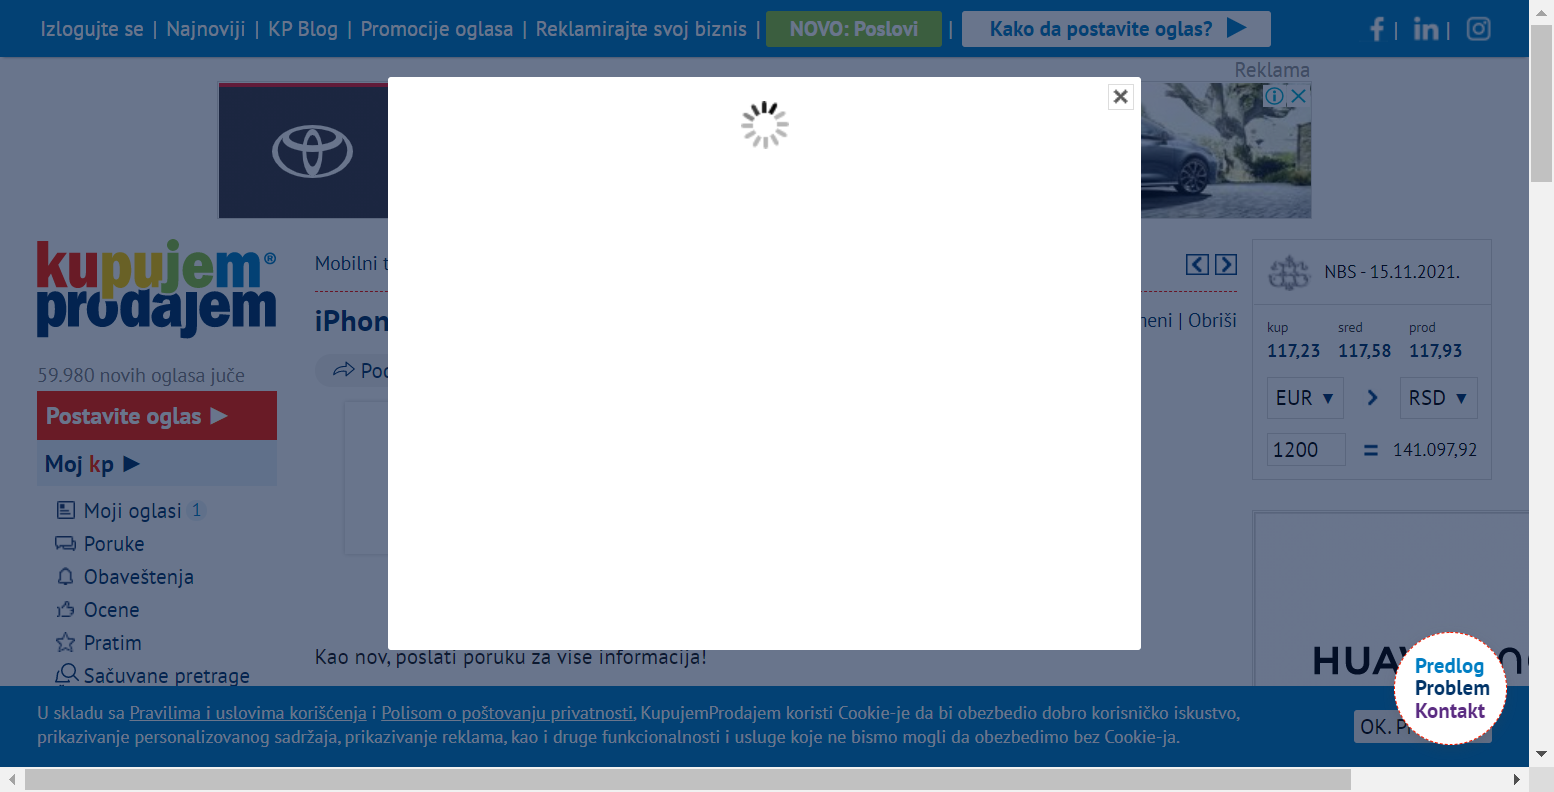
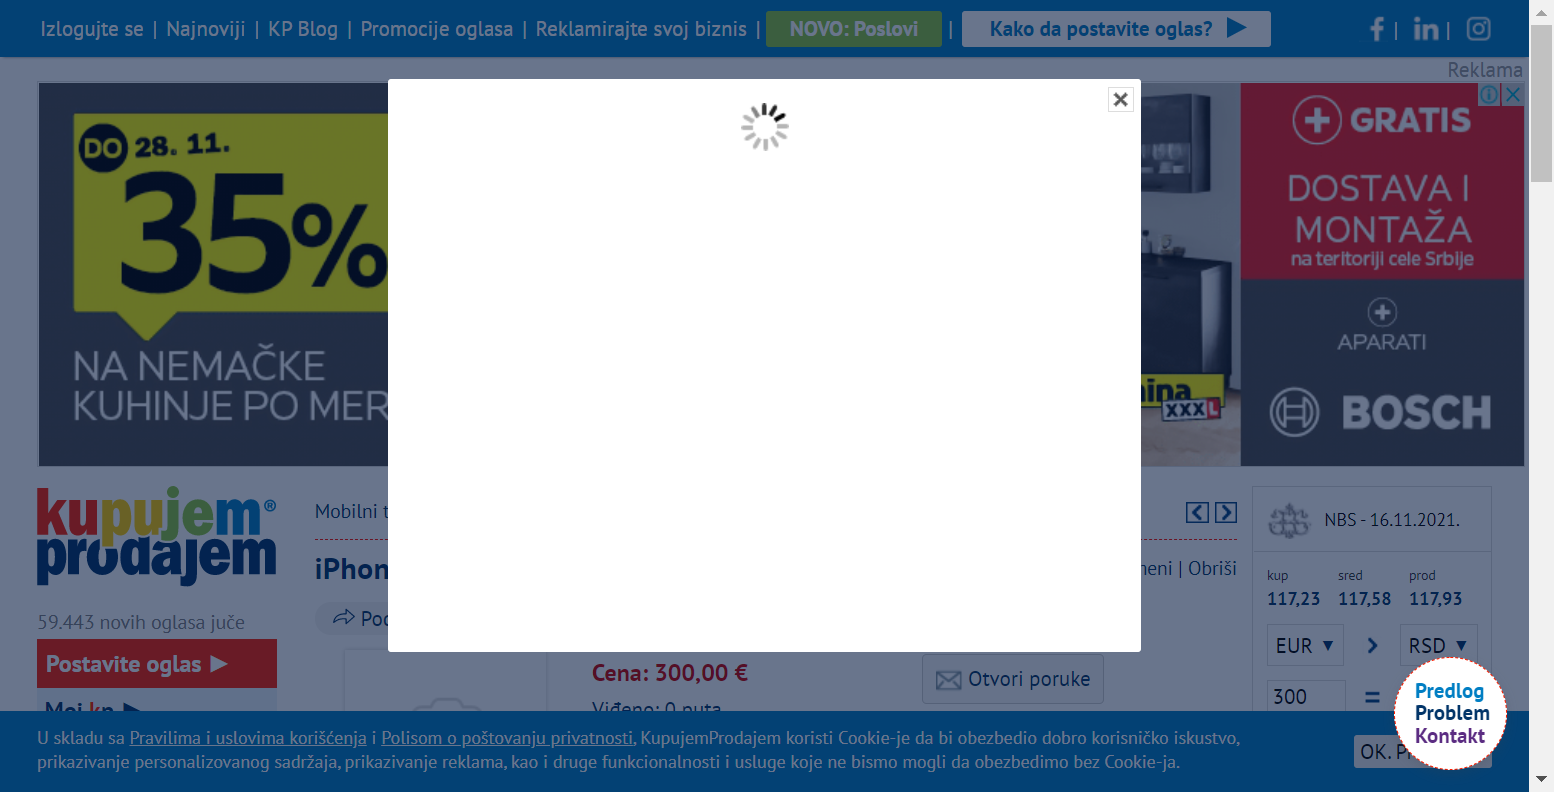
[final project]

diff --git a/test_ita.py b/test_ita.py
@@ -4,6 +4,7 @@ from selenium.webdriver.support.ui import WebDriverWait
 from selenium.webdriver.common.by import By       
 from selenium.webdriver.support import expected_conditions as EC, wait
 import time
+import re
 
 opcije = ChromeOptions()
 opcije.add_argument("--log-level=3")
@@ -31,11 +32,15 @@ def log_in_logout():
     time.sleep(3)
 
     email.click()
-    email.send_keys("itilija2@gmail.com")
+    email.send_keys("ilijaitacademy@gmail.com")
     password.click()
     password.send_keys("Miljevic2005")
     klik.click()
     browser.save_screenshot("kp_login_.png")
+    time.sleep(3)
+    log_out = browser.find_element_by_link_text("Izlogujte se")
+    log_out.click()
+    browser.save_screenshot("kp_log_out.png")
     time.sleep(3)
 
     browser.close()
@@ -64,7 +69,7 @@ def postavi_oglas():
     time.sleep(3)
 
     email.click()
-    email.send_keys("itilija2@gmail.com")
+    email.send_keys("ilijaitacademy@gmail.com")
     password.click()
     password.send_keys("Miljevic2005")
     klik.click()
@@ -78,7 +83,7 @@ def postavi_oglas():
 
     naziv_oglasa = browser.find_element_by_id("data[group_suggest_text]")
     naziv_oglasa.click()
-    naziv_oglasa.send_keys("iPhone 13 Pro Max")
+    naziv_oglasa.send_keys("iPhone 7")
     browser.save_screenshot("kp_new_.png")
     time.sleep(3)
 
@@ -99,7 +104,7 @@ def postavi_oglas():
 
     cena = browser.find_element_by_id("price_number")
     cena.click()
-    cena.send_keys("1200")
+    cena.send_keys("300")
     time.sleep(3)
 
     valuta = browser.find_element_by_id("currency_eur")
@@ -133,9 +138,12 @@ def postavi_oglas():
     postavi = browser.find_element_by_css_selector('[value="Postavite oglas"]')
     postavi.click()
     browser.save_screenshot("kp_postavi_.png")
+    time.sleep(3)
     log_out = browser.find_element_by_link_text("Izlogujte se")
     log_out.click()
     time.sleep(3)
+    browser.close()
+
 
 def ulazak_u_oglas_i_brisanje():
 
@@ -159,7 +167,7 @@ def ulazak_u_oglas_i_brisanje():
     time.sleep(3)
 
     email.click()
-    email.send_keys("itilija2@gmail.com")
+    email.send_keys("ilijaitacademy@gmail.com")
     password.click()
     password.send_keys("Miljevic2005")
     klik.click()
@@ -169,19 +177,26 @@ def ulazak_u_oglas_i_brisanje():
     moji_oglasi.click()
     browser.save_screenshot("kp_oglasi.png")
     time.sleep(3)
-    telefon = browser.find_element_by_link_text("iPhone 13 Pro Max")
+    telefon = browser.find_element_by_link_text("iPhone 7")
     telefon.click()
     browser.save_screenshot("kp_oglas.png")
     brisanje = browser.find_element_by_link_text("Obriši")
     brisanje.click()
     browser.implicitly_wait(5)
     browser.save_screenshot("kp_brisanje.png")
-    brisanje1 = browser.find_element_by_css_selector('[value="renew"]')
-    brisanje1.click()
-    browser.save_screenshot("kp_brisanje1.png")
-    brisanje2 = browser.find_element_by_name("submit[delete]")
-    brisanje2.click
-    browser.save_screenshot("kp_brisanje2.png")
+    def frame_switch(css_selector):
+        browser.switch_to.frame(browser.find_element_by_css_selector(css_selector))
+
+    browser.switch_to.frame(browser.find_element(By.CLASS_NAME, 'kpBoxIframe'))
+    element = browser.find_element(By.ID, 'data[reason]sold').click()
     time.sleep(3)
     
+    brisanje2 = browser.find_element_by_name("submit[delete]")
+    brisanje2.click()
+    browser.save_screenshot("kp_brisanje2.png")
+    browser.implicitly_wait(50)
+    browser.save_screenshot("kp_brisanje3.png")
+    time.sleep(3)
+    
+
 ulazak_u_oglas_i_brisanje()
